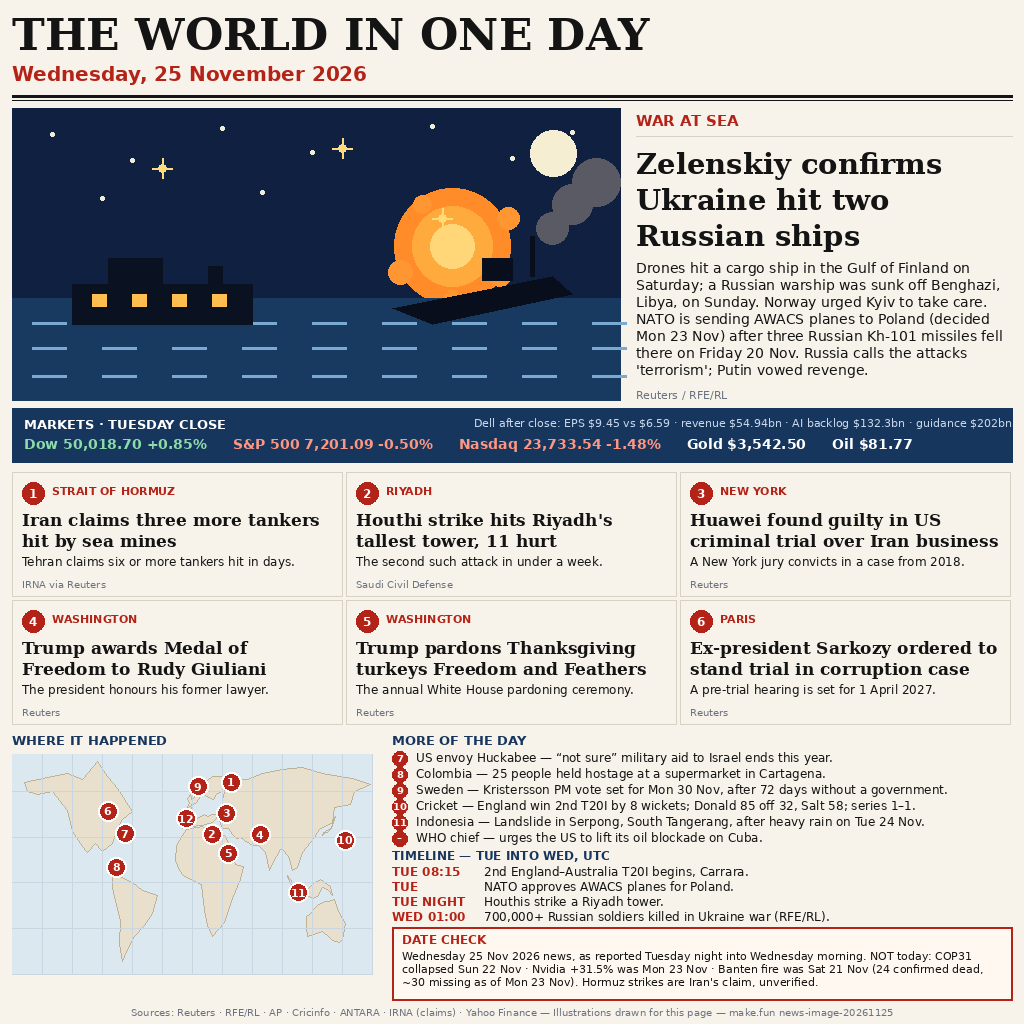
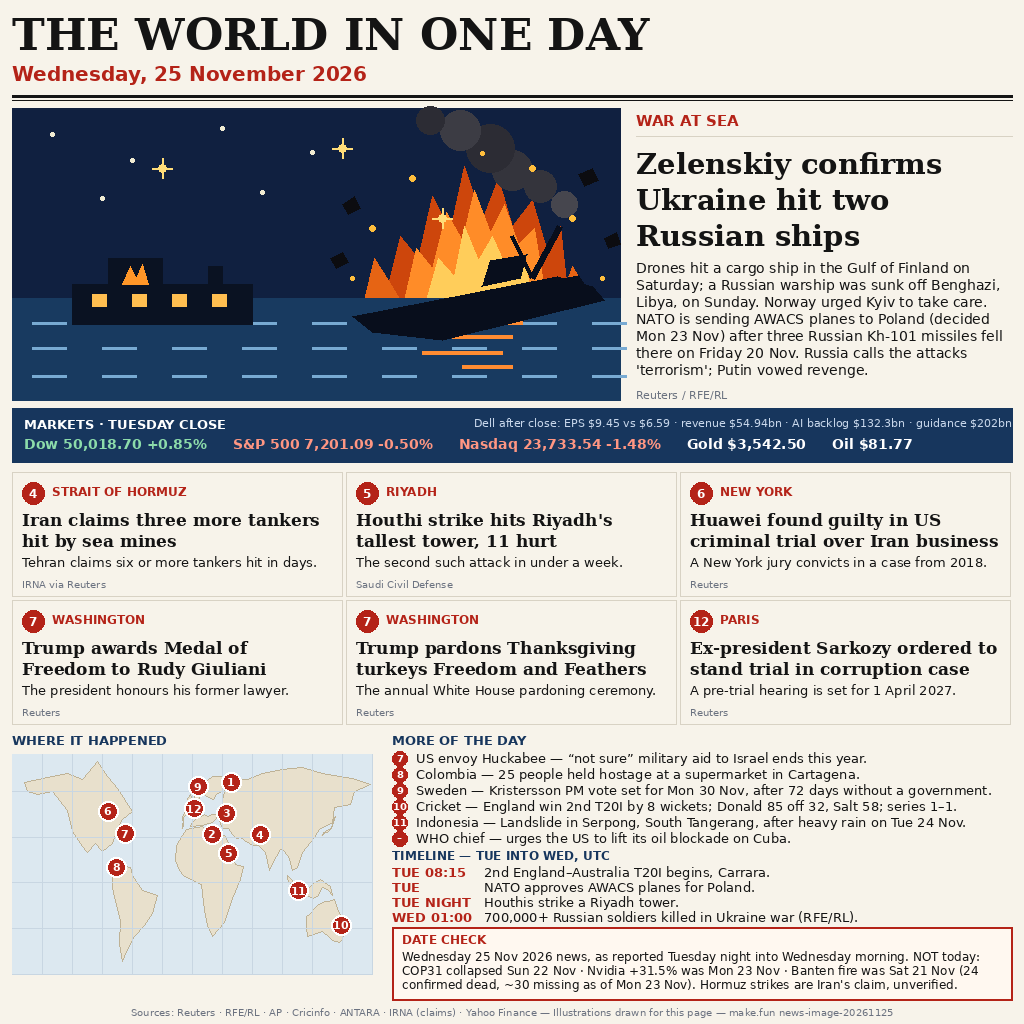
fix: sync grid badges to map pins, reshape hero blast, fix map pins
- Grid badges now match map pins (Hormuz 4, Riyadh 5, New York 6,
  Washington 7x2, Paris 12); one location = one number everywhere.
- Hero: removed round sun-like blast disc and moon; jagged asymmetric
  flame tongues + black smoke + debris + embers, bigger listing warship
  with fire reflection on water; reads as explosion at 300px too.
- Map: Gold Coast lat sign fixed (+28 -> -28), pins 8/10/11/12 now sit
  on land (SA north coast raised, Sumatra/Java land fattened, offsets
  corrected); pins 6/7 untouched.
- Body text enlarged where it fits: grid deck 12->13, MORE/timeline
  12->13, DATE CHECK 11->12, no truncation; MORE Serpong row has no
  (Banten).

diff --git a/render.py b/render.py
@@ -65,39 +65,76 @@ def block(draw, x, y, lines, fnt, max_w, leading, fill=INK, max_lines=None):
 
 
 def draw_hero_illustration(draw, x, y, w, h):
-    # Night sea, flat geometric style: dark navy sky, orange blast, ship silhouettes.
+    # Night sea, flat geometric style: dark navy sky, asymmetric blast, sinking warship.
+    # Deliberately NOT a round disc: jagged flame tongues + debris + black smoke,
+    # so the image reads as an explosion/fire, never a sunset. No moon.
     draw.rectangle([x, y, x + w, y + h], fill=(16, 32, 64))
-    # stars
-    for sx, sy in [(40, 26), (120, 52), (210, 20), (300, 44), (420, 18),
-                   (500, 50), (560, 24), (90, 90), (250, 84), (470, 92)]:
+    # stars, kept away from the blast so the fire reads clearly
+    for sx, sy in [(40, 26), (120, 52), (210, 20), (300, 44), (90, 90), (250, 84)]:
         draw.ellipse([x + sx - 2, y + sy - 2, x + sx + 2, y + sy + 2], fill=(240, 235, 210))
-    # moon
-    draw.ellipse([x + w - 90, y + 22, x + w - 44, y + 68], fill=(245, 238, 210))
-    # explosion glow: layered blobs over the stricken warship, no spokes
-    cx, cy = x + 440, y + 138
-    for r, col in [(58, (255, 140, 40)), (40, (255, 170, 60)), (22, (255, 215, 120))]:
-        draw.ellipse([cx - r, cy - r, cx + r, cy + r], fill=col)
-    for dx, dy, r in [(-52, 26, 12), (48, 30, 10), (-30, -42, 9), (56, -28, 11), (0, 52, 8)]:
-        draw.ellipse([cx + dx - r, cy + dy - r, cx + dx + r, cy + dy + r], fill=(255, 150, 50))
+    # blast: layered jagged flame tongues rising off the stricken warship
+    draw.polygon([(x + 372, y + 192), (x + 388, y + 128), (x + 406, y + 150),
+                  (x + 420, y + 88), (x + 438, y + 122), (x + 452, y + 58),
+                  (x + 470, y + 112), (x + 486, y + 70), (x + 500, y + 118),
+                  (x + 520, y + 92), (x + 534, y + 140), (x + 548, y + 118),
+                  (x + 556, y + 192)], fill=(205, 70, 12))
+    draw.polygon([(x + 392, y + 192), (x + 404, y + 140), (x + 420, y + 160),
+                  (x + 434, y + 104), (x + 450, y + 132), (x + 462, y + 82),
+                  (x + 478, y + 124), (x + 492, y + 96), (x + 506, y + 136),
+                  (x + 522, y + 120), (x + 534, y + 192)], fill=(255, 140, 40))
+    draw.polygon([(x + 414, y + 192), (x + 426, y + 150), (x + 442, y + 168),
+                  (x + 452, y + 118), (x + 466, y + 152), (x + 480, y + 128),
+                  (x + 496, y + 164), (x + 512, y + 150), (x + 520, y + 192)],
+                 fill=(255, 205, 90))
+    # side tongues leaning outward
+    draw.polygon([(x + 352, y + 192), (x + 362, y + 150), (x + 376, y + 172),
+                  (x + 388, y + 192)], fill=(230, 100, 20))
+    draw.polygon([(x + 548, y + 192), (x + 560, y + 158), (x + 572, y + 178),
+                  (x + 580, y + 192)], fill=(230, 100, 20))
+    # thick black smoke column rising off the flames, drifting left
+    for sx, sy, r, col in [(500, 62, 20, (52, 52, 60)), (478, 40, 24, (44, 44, 52)),
+                           (448, 22, 20, (60, 60, 68)), (418, 12, 14, (44, 44, 52)),
+                           (528, 78, 16, (52, 52, 60)), (552, 96, 13, (70, 70, 78))]:
+        draw.ellipse([x + sx - r, y + sy - r, x + sx + r, y + sy + r], fill=col)
+    # debris chunks flying off the blast
+    for pts in [[(330, 96), (342, 88), (348, 100), (336, 106)],
+                [(566, 66), (580, 60), (586, 72), (572, 78)],
+                [(592, 130), (604, 124), (608, 136), (596, 140)],
+                [(318, 150), (330, 144), (336, 154), (324, 160)]]:
+        draw.polygon([(x + px, y + py) for px, py in pts], fill=(12, 12, 16))
+    # embers
+    for ex, ey, r in [(360, 120, 3), (400, 70, 3), (520, 60, 3), (560, 110, 3),
+                      (340, 170, 2), (590, 170, 2), (470, 45, 2)]:
+        draw.ellipse([x + ex - r, y + ey - r, x + ex + r, y + ey + r], fill=(255, 190, 60))
     # sea
     draw.rectangle([x, y + 190, x + w, y + h], fill=(24, 58, 96))
     for wy in (215, 240, 268):
         for wx in range(20, w - 20, 70):
             draw.line([x + wx, y + wy, x + wx + 34, y + wy], fill=(120, 170, 210), width=3)
-    # cargo ship silhouette (left)
+    # fire reflection on the water under the blast
+    for rx, ry, rw in [(400, 200, 120), (420, 214, 90), (440, 228, 60),
+                       (410, 244, 80), (450, 258, 50)]:
+        draw.line([x + rx, y + ry, x + rx + rw, y + ry], fill=(255, 140, 50), width=4)
+    # cargo ship silhouette (left) with a small deck fire
     draw.rectangle([x + 60, y + 176, x + 240, y + 216], fill=(10, 18, 34))
     draw.rectangle([x + 96, y + 150, x + 150, y + 176], fill=(10, 18, 34))
     draw.rectangle([x + 196, y + 158, x + 210, y + 176], fill=(10, 18, 34))
     for px in (80, 120, 160, 200):
         draw.rectangle([x + px, y + 186, x + px + 14, y + 198], fill=(255, 190, 80))
-    # sinking warship (right, tilted)
-    draw.polygon([(x + 380, y + 200), (x + 540, y + 168), (x + 560, y + 186),
-                  (x + 420, y + 216)], fill=(8, 14, 28))
-    draw.rectangle([x + 470, y + 150, x + 500, y + 172], fill=(8, 14, 28))
-    draw.line([x + 520, y + 168, x + 520, y + 128], fill=(8, 14, 28), width=5)
-    # smoke
-    for sx, sy, r in [(540, 120, 16), (560, 96, 20), (584, 74, 24)]:
-        draw.ellipse([x + sx - r, y + sy - r, x + sx + r, y + sy + r], fill=(90, 90, 100))
+    draw.polygon([(x + 110, y + 176), (x + 118, y + 158), (x + 124, y + 170),
+                  (x + 130, y + 156), (x + 136, y + 176)], fill=(255, 150, 40))
+    # sinking warship (right): bigger, listing hard, stern going under
+    draw.polygon([(x + 340, y + 208), (x + 545, y + 168), (x + 580, y + 178),
+                  (x + 592, y + 192), (x + 430, y + 232), (x + 360, y + 224)],
+                 fill=(8, 14, 28))
+    # leaning superstructure + broken mast
+    draw.polygon([(x + 470, y + 178), (x + 508, y + 170), (x + 514, y + 146),
+                  (x + 478, y + 152)], fill=(8, 14, 28))
+    draw.line([x + 520, y + 170, x + 548, y + 118], fill=(8, 14, 28), width=6)
+    draw.line([x + 520, y + 170, x + 500, y + 128], fill=(8, 14, 28), width=4)
+    # bow gun turret
+    draw.polygon([(x + 540, y + 172), (x + 566, y + 167), (x + 572, y + 176),
+                  (x + 546, y + 180)], fill=(8, 14, 28))
     # drones: small dots with cross arms
     for dx, dy in [(150, 60), (330, 40), (430, 110)]:
         draw.ellipse([x + dx - 4, y + dy - 4, x + dx + 4, y + dy + 4], fill=(255, 220, 120))
@@ -118,8 +155,8 @@ def draw_map(draw, x, y, w, h, pins):
          (-75, 62), (-60, 47), (-70, 42), (-75, 35), (-80, 26), (-90, 21),
          (-97, 26), (-105, 20), (-110, 24), (-120, 34), (-125, 48), (-140, 60),
          (-155, 58), (-165, 60)],
-        # South America
-        [(-80, 10), (-75, 5), (-60, 0), (-50, -5), (-35, -8), (-40, -20),
+        # South America (north coast raised to lat ~11-12 so Cartagena sits on land)
+        [(-80, 11), (-77, 11), (-72, 12), (-66, 11), (-62, 10), (-60, 5), (-50, -5), (-35, -8), (-40, -20),
          (-48, -28), (-58, -35), (-65, -45), (-70, -52), (-73, -40),
          (-72, -25), (-77, -12), (-80, -3)],
         # Europe
@@ -148,6 +185,10 @@ def draw_map(draw, x, y, w, h, pins):
          (125, -9), (130, -3), (135, -4), (140, -8), (138, -2), (132, 0),
          (128, 2), (122, 0), (118, -2), (112, -6), (106, -6), (100, -2),
          (96, 2)],
+        # Sumatra (fat diagonal) + Java (fat band) so pin 11 has land under it
+        [(95, 5), (98, 3), (101, 0), (104, -3), (106, -5), (104, -6),
+         (100, -3), (97, 0), (95, 3)],
+        [(105, -6), (110, -6.5), (114, -7), (114, -8.5), (110, -8.5), (105, -7.5)],
         # UK + Japan hints
         [(-5, 50), (-3, 53), (-5, 56), (-2, 58), (0, 53), (-1, 51)],
         [(130, 31), (133, 34), (137, 35), (140, 38), (141, 42), (143, 44),
@@ -161,9 +202,10 @@ def draw_map(draw, x, y, w, h, pins):
         draw.line([px(lon), y, px(lon), y + h], fill=(200, 214, 226), width=1)
     for lat in range(-60, 86, 30):
         draw.line([x, py(lat), x + w, py(lat)], fill=(200, 214, 226), width=1)
-    # pins (small display nudges keep close pins readable)
+    # pins (small display nudges keep close pins readable; kept tiny so pins stay on land)
     offsets = {1: (14, -10), 3: (12, 8), 4: (12, -8), 5: (-10, 8),
-               6: (-10, -10), 7: (10, 10), 9: (-12, -6), 12: (-8, 10)}
+               6: (-10, -10), 7: (10, 10), 8: (0, 0), 9: (-12, -6),
+               10: (-4, 0), 11: (0, -2), 12: (0, 0)}
     for n, name, lat, lon in pins:
         dx, dy = offsets.get(n, (0, 0))
         cx, cy = px(lon) + dx, py(lat) + dy
@@ -218,9 +260,9 @@ def render():
         # pin badge
         dr.ellipse([cx + 10, cy + 10, cx + 32, cy + 32], fill=RED)
         dr.text((cx + 21, cy + 21), str(g["n"]), font=SANSB(12), fill=(255, 255, 255), anchor="mm")
-        text(dr, (cx + 40, cy + 12), g["kicker"], SANSB(11), RED)
+        text(dr, (cx + 40, cy + 12), g["kicker"], SANSB(12), RED)
         y2 = block(dr, cx + 10, cy + 38, [g["headline"]], SERIF(17), cw - 20, 21, max_lines=2)
-        block(dr, cx + 10, y2 + 2, [g["deck"]], SANS(12), cw - 20, 15, max_lines=1)
+        block(dr, cx + 10, y2 + 2, [g["deck"]], SANS(13), cw - 20, 16, max_lines=1)
         text(dr, (cx + 10, cy + chh - 18), g["source"], SANS(10), GREY)
 
     # ---- Bottom: map (left) ----
@@ -239,21 +281,21 @@ def render():
         dr.ellipse([rx, y + 1, rx + 15, y + 16], fill=RED)
         dr.text((rx + 8, y + 8), badges[i], font=SANSB(10), fill=(255, 255, 255), anchor="mm")
         ln = f"{lead} — {rest}"
-        y = block(dr, rx + 24, y, [ln], SANS(12), 1012 - rx - 24, 14, max_lines=1)
-        y += 2
+        y = block(dr, rx + 24, y, [ln], SANS(13), 1012 - rx - 24, 15, max_lines=1)
+        y += 1
     y += 2
     text(dr, (rx, y), "TIMELINE — TUE INTO WED, UTC", SANSB(12), NAVY)
     y += 16
     for t, ev in d["timeline"]:
-        text(dr, (rx, y), t, SANSB(12), RED)
-        y = block(dr, rx + 92, y, [ev], SANS(12), 1012 - rx - 92, 13, max_lines=1)
-        y += 2
+        text(dr, (rx, y), t, SANSB(13), RED)
+        y = block(dr, rx + 92, y, [ev], SANS(13), 1012 - rx - 92, 14, max_lines=1)
+        y += 1
     y += 3
     # date check box
     box_h = 1000 - y
     dr.rectangle([rx, y, 1012, y + box_h], outline=RED, width=2, fill=(255, 248, 240))
     text(dr, (rx + 10, y + 5), "DATE CHECK", SANSB(12), RED)
-    block(dr, rx + 10, y + 22, [d["date_check"]], SANS(11), 1012 - rx - 20, 13, max_lines=3)
+    block(dr, rx + 10, y + 22, [d["date_check"]], SANS(12), 1012 - rx - 20, 14, max_lines=3)
 
     # ---- Footer ----
     text(dr, (512, 1006), d["footer"], SANS(10), GREY, anchor="ma")
